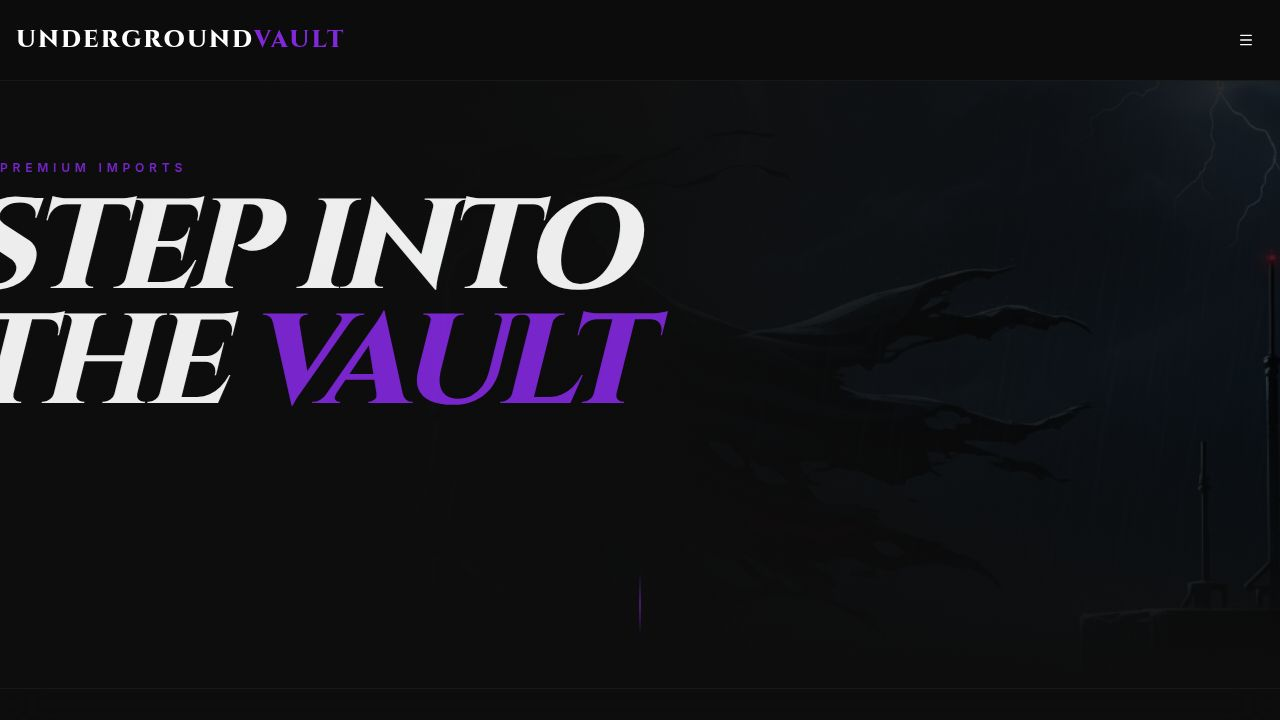
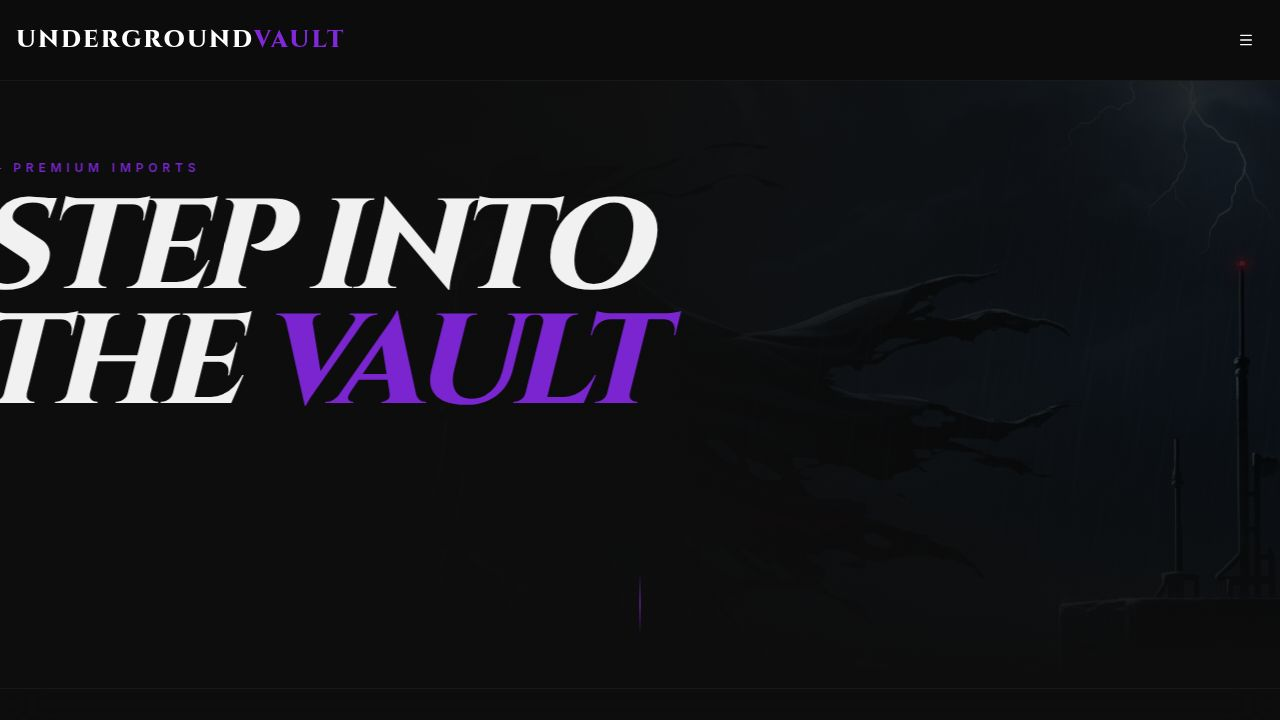
Adjust main image display for better visibility on mobile devices
Modify hero section styling to use `object-contain` for mobile, ensuring the full image is visible, while maintaining `object-cover` for larger screens.

Replit-Commit-Author: Agent
Replit-Commit-Session-Id: 26c40b11-4ae2-4244-8aaa-11b36670c4a1
Replit-Commit-Checkpoint-Type: full_checkpoint
Replit-Commit-Event-Id: b9226110-0359-48c1-b6f8-34e45c0433c5
Replit-Commit-Screenshot-Url: https://storage.googleapis.com/screenshot-production-us-central1/8648d69b-8b6a-4dcc-8ad8-7741b681684e/26c40b11-4ae2-4244-8aaa-11b36670c4a1/cTAXBBC
Replit-Helium-Checkpoint-Created: true

diff --git a/client/src/pages/home.tsx b/client/src/pages/home.tsx
@@ -23,12 +23,12 @@ export default function Home() {
       <section className="relative min-h-[80vh] flex items-center pt-20 overflow-hidden bg-black">
         {/* Background Image with Overlay */}
         <div className="absolute inset-0 z-0">
-          <div className="absolute inset-0 bg-gradient-to-r from-background via-background/95 to-background/20 z-10" />
-          <div className="absolute inset-0 bg-gradient-to-t from-background via-transparent to-background/50 z-10" />
+          <div className="absolute inset-0 bg-gradient-to-r from-background via-background/95 to-background/10 md:to-background/20 z-10" />
+          <div className="absolute inset-0 bg-gradient-to-t from-background via-transparent to-background/40 md:to-background/50 z-10" />
           <img 
             src={heroImage}
             alt="Anime Figure Collection"
-            className="w-full h-full object-cover opacity-60 scale-105 md:opacity-40"
+            className="w-full h-full object-contain md:object-cover opacity-80 md:opacity-40"
           />
         </div>
 
